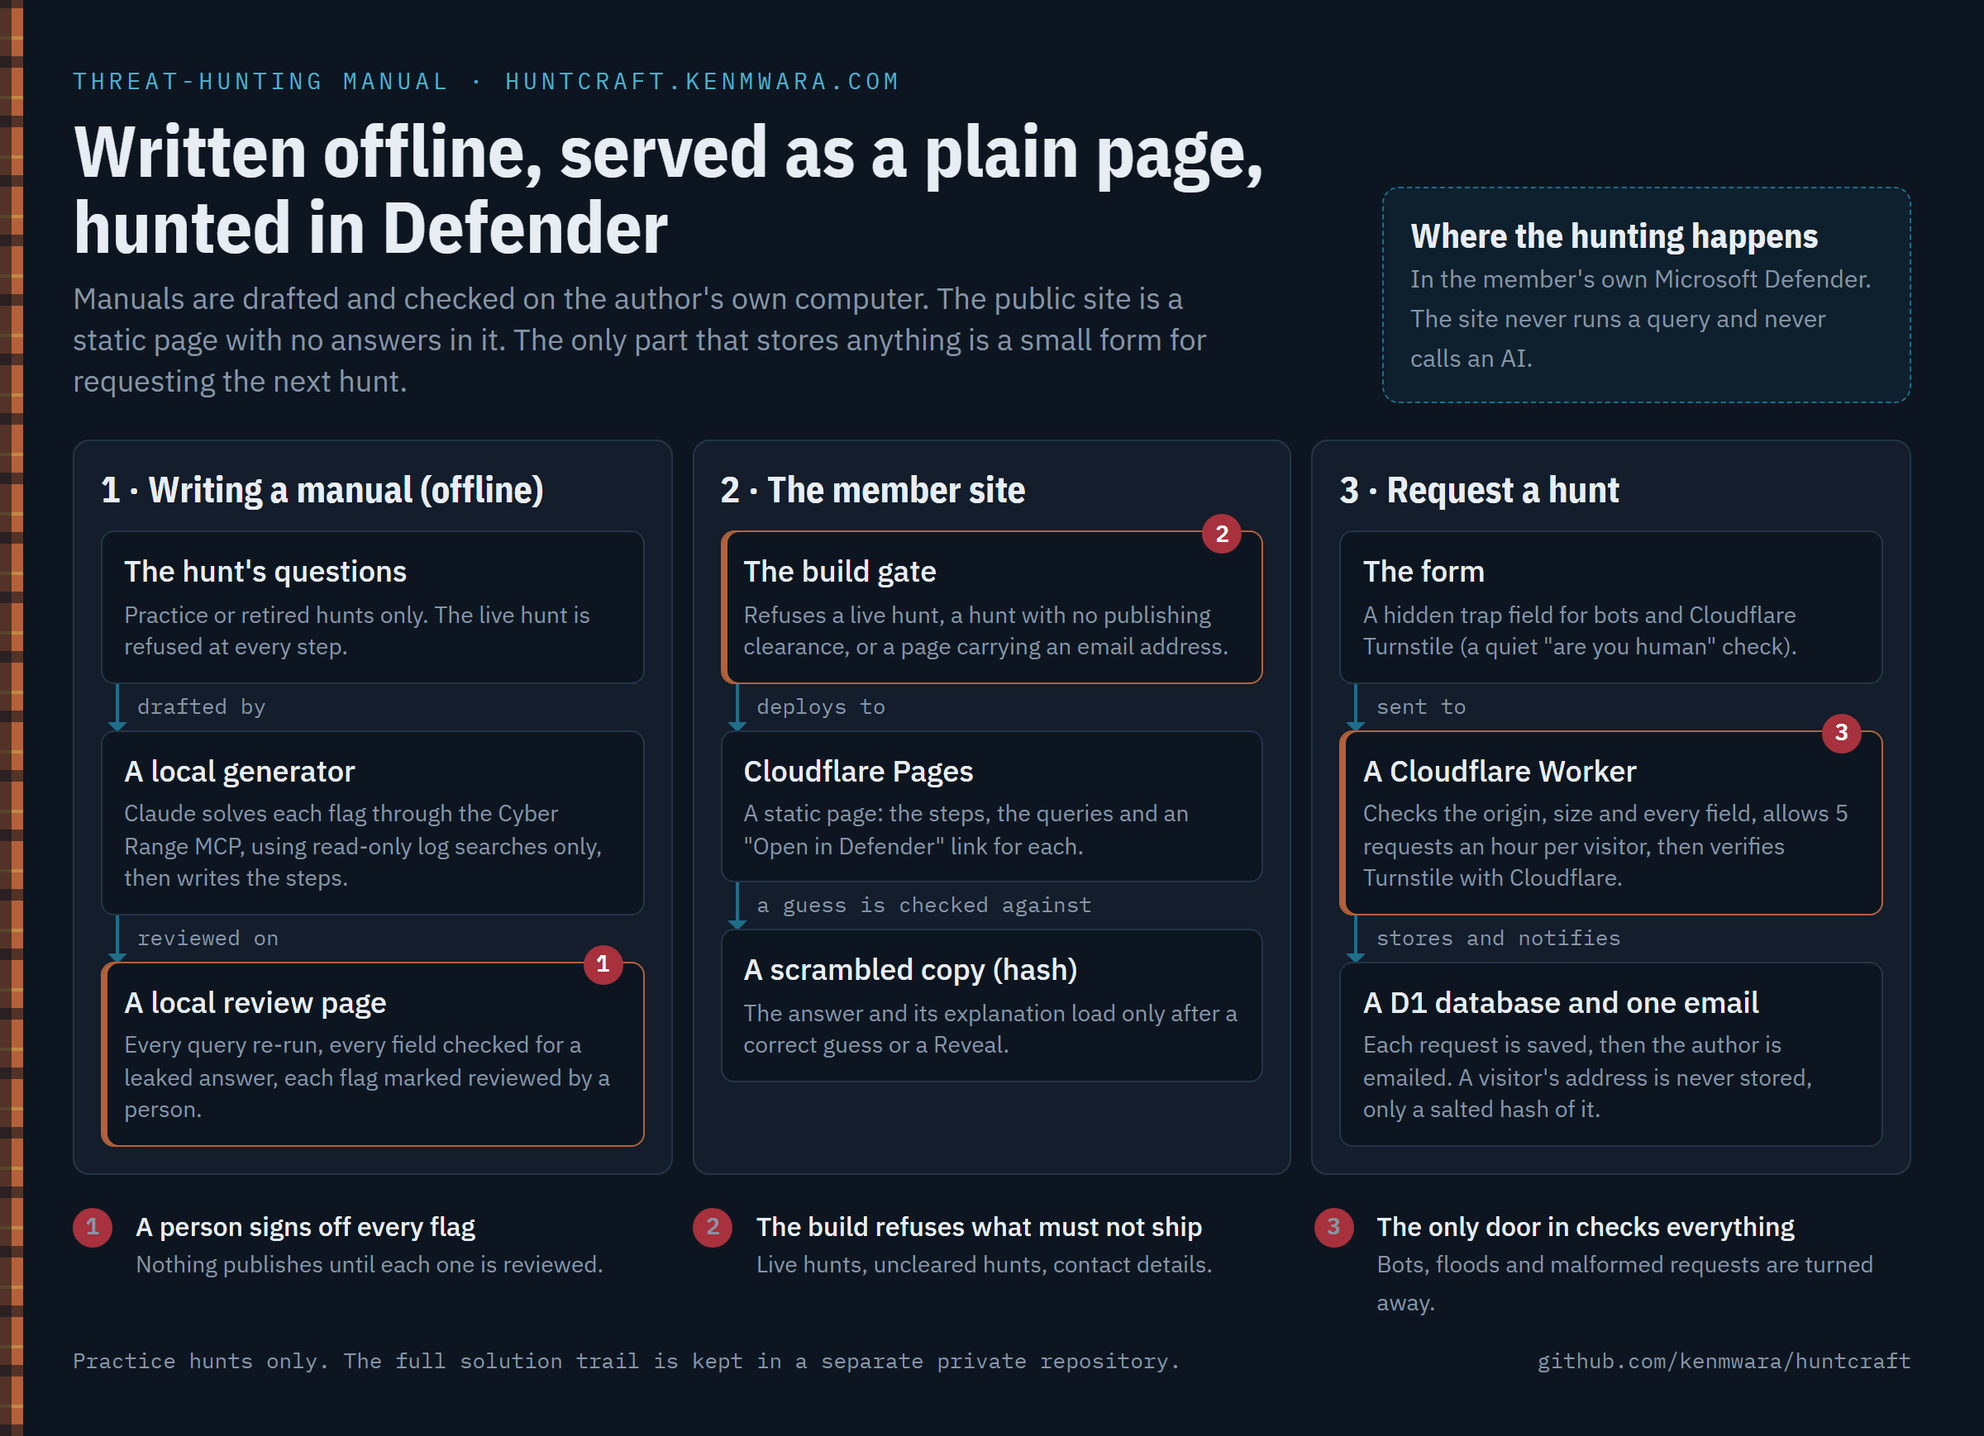
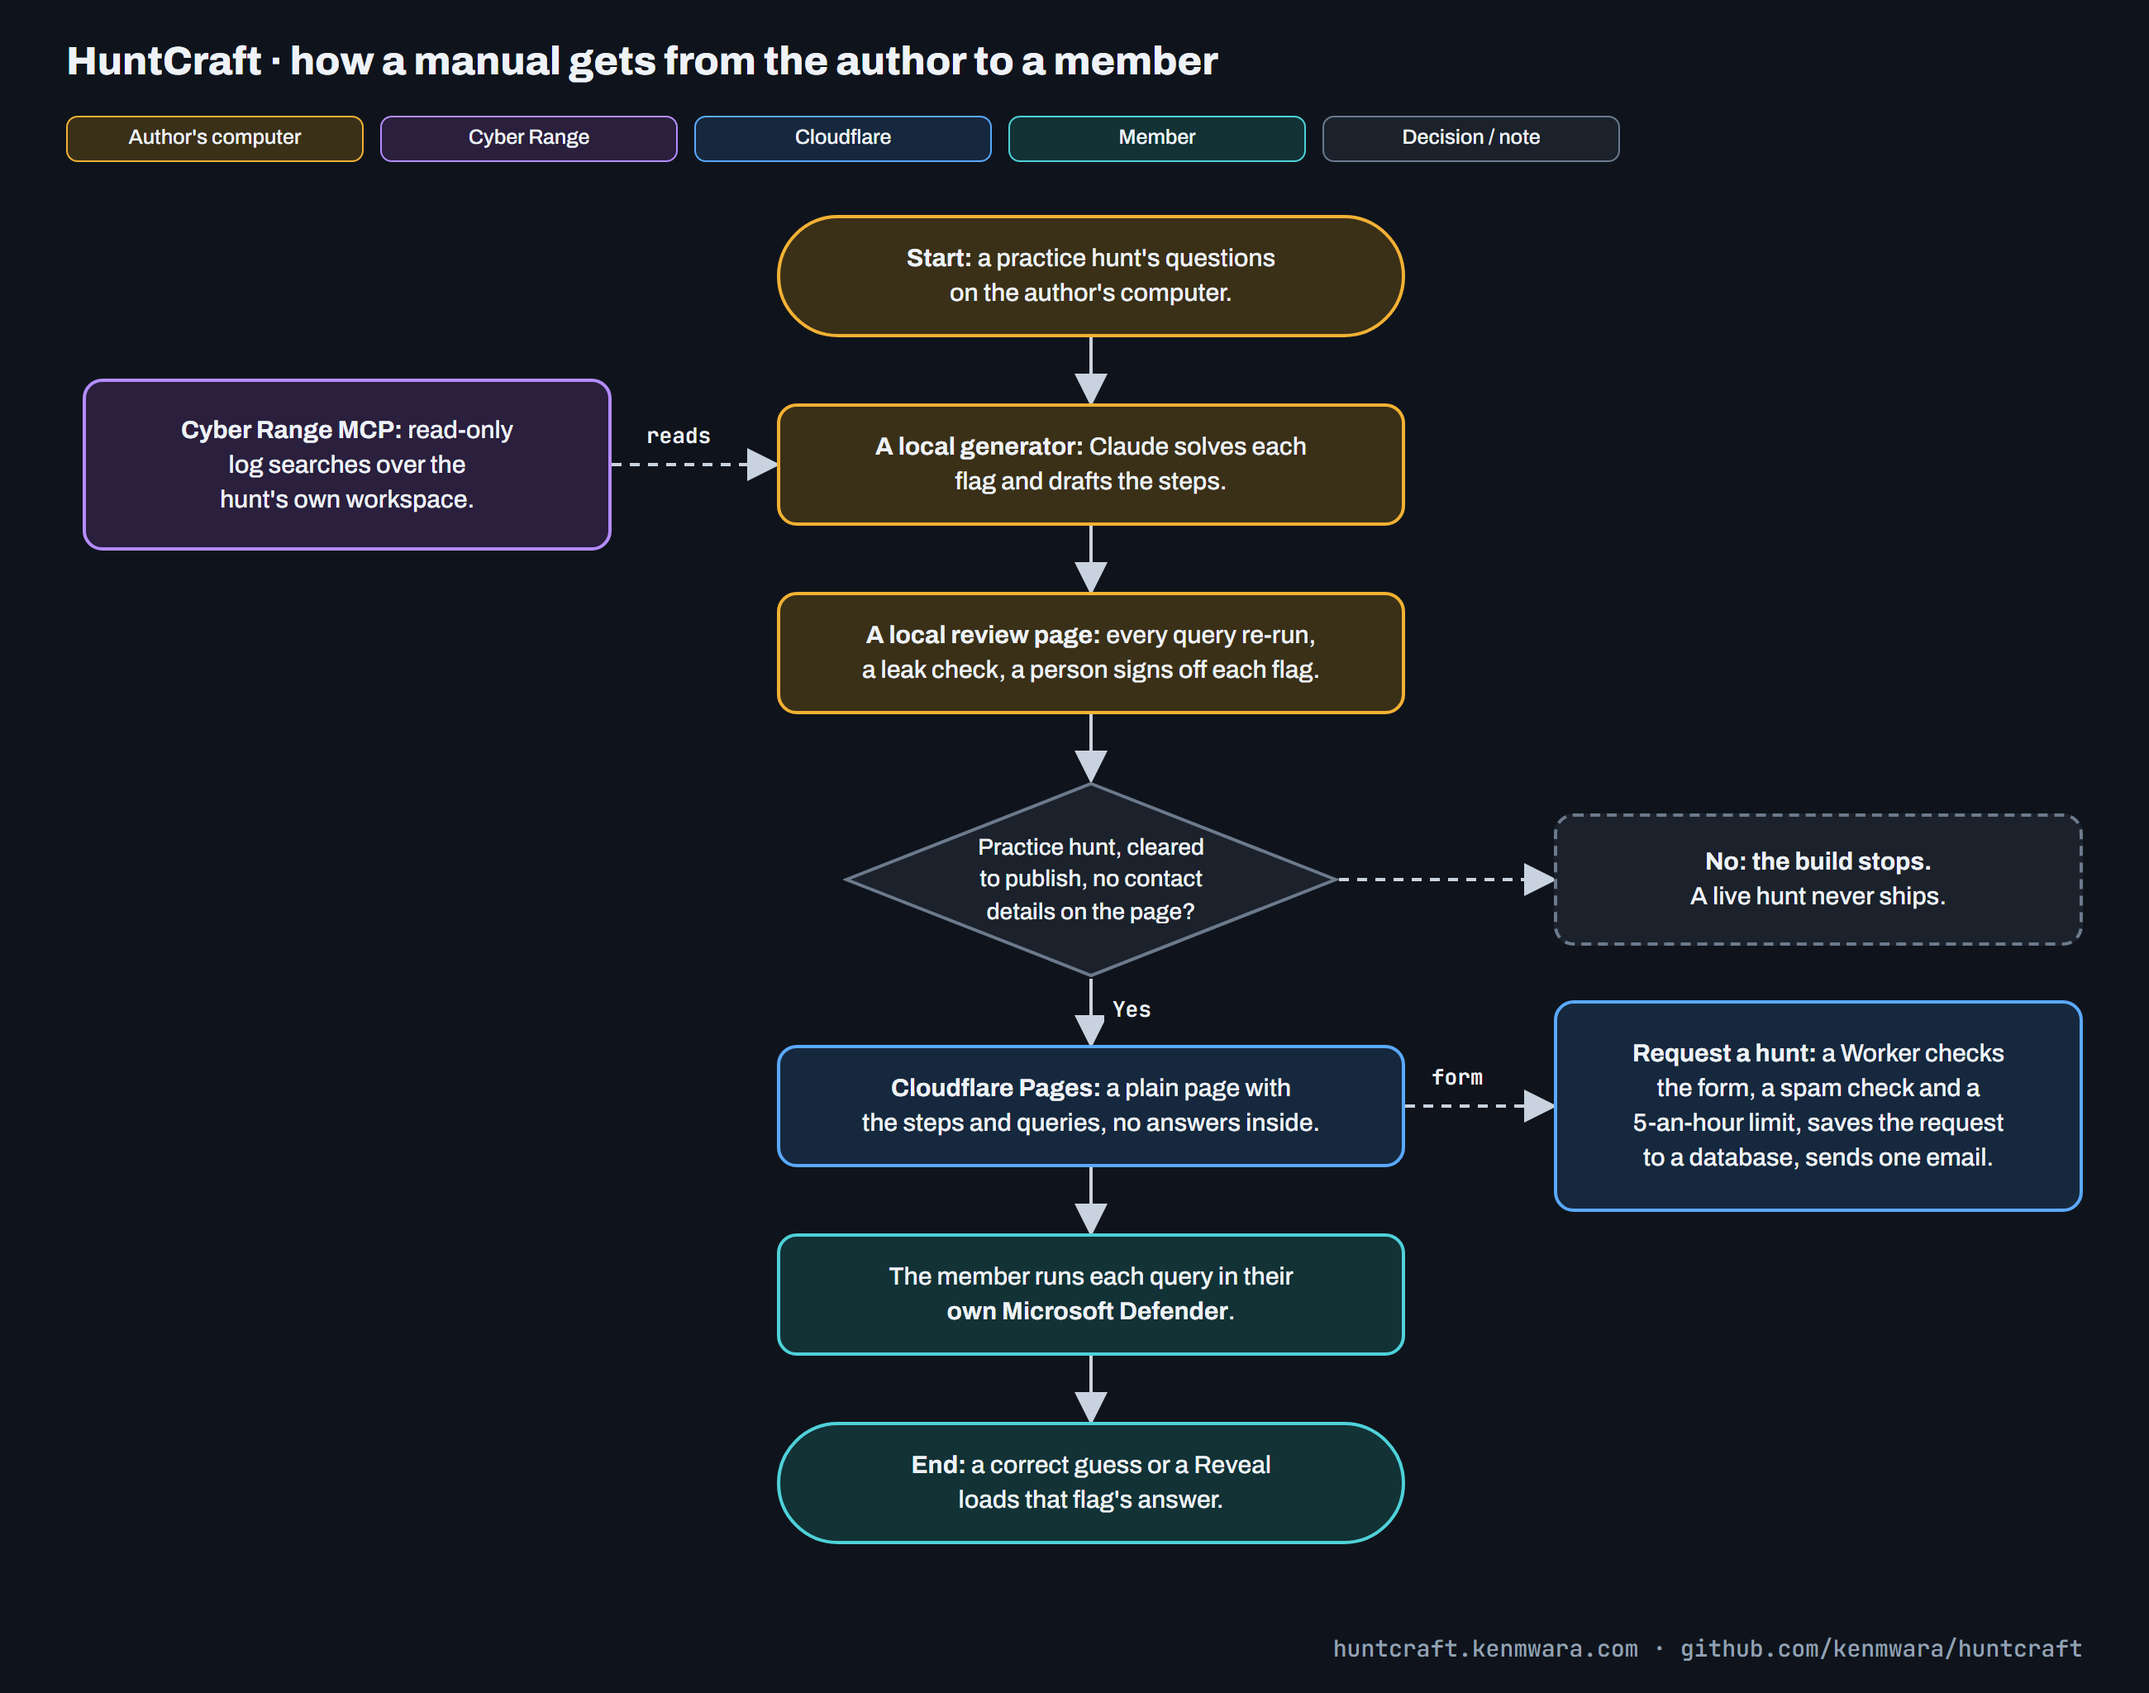
README: architecture redrawn in the flow-diagram style

diff --git a/README.md b/README.md
@@ -30,7 +30,7 @@ deliberate Reveal.
 
 ## How it is built
 
-![HuntCraft architecture: manuals are written offline with a local generator and review page, published through a build gate to Cloudflare Pages, and a Request a hunt form posts to a Cloudflare Worker that stores requests in D1 and sends one email](images/architecture.png)
+![How a manual gets from the author to a member: a local generator reads the Cyber Range MCP, a local review page signs off each flag, the build stops anything live or uncleared, Cloudflare Pages serves a plain page, the member hunts in Defender, and the Request a hunt form posts to a Worker that saves the request and sends one email](images/architecture.png)
 
 - **Writing a manual (offline).** `tools/generate.py` drafts a manual with Claude, limited to the Cyber Range MCP's
   read-only log-search tools. `tools/review.py` is a local review page: every query is re-run, every field is checked
@@ -84,7 +84,6 @@ Members can request the next hunt at https://huntcraft.kenmwara.com/request.
 | Review and publish | `python tools/review.py`, then open http://127.0.0.1:8770 |
 | Checks | `python tools/generate.py --selftest` and `python tools/review.py --selftest` |
 
-Diagram sources: `images/flow.drawio`; the architecture, scorecard and screenshot frame are rendered from the
-author's shared design templates.
+Diagram sources: `images/flow.drawio` and `images/architecture.drawio`.
 
 </details>
